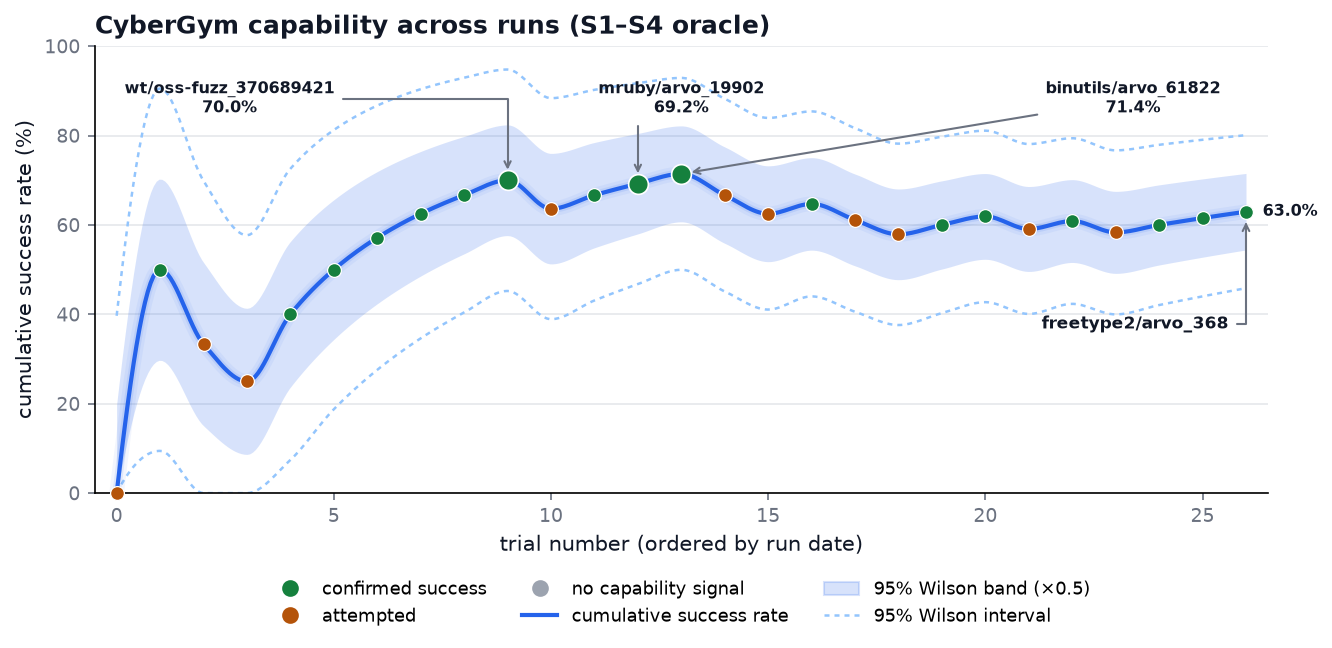
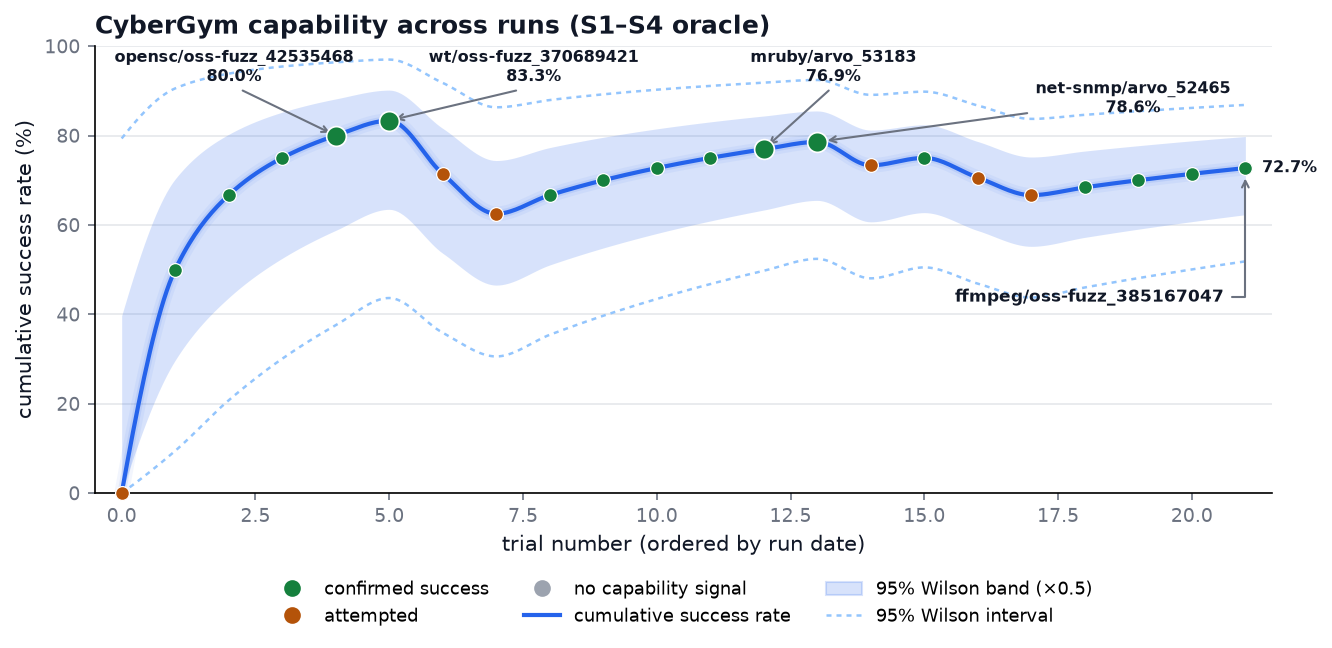
feat(cybergym): capability-rate 4-peak default + diagonal peak leaders
Make four peak annotations the reproducible default (top_n=4). Rework the peak
leaders so every inner peak uses a single straight diagonal whose label is
lifted and whose tail is anchored directly under the task name, running the
full way from the name to its dot, instead of a short stub or an L-shape that
drops toward a neighbouring peak; the rightmost peak keeps its long diagonal.
Regenerated cybergym_capability_curve_rate.png (22 trials, 16 successes, 72.7%;
full Wilson 51.8-86.8%, half-scale band 62.3-79.8%). Numerics unchanged.

diff --git a/cybergym_capability_curve_rate.py b/cybergym_capability_curve_rate.py
@@ -59,8 +59,13 @@ def wilson(k: int, n: int, z: float) -> tuple[float, float, float]:
     return phat, max(0.0, centre - half), min(1.0, centre + half)
 
 
+def scale_interval(p: float, lo: float, hi: float, scale: float) -> tuple[float, float]:
+    """Interpolate each confidence bound toward p without losing asymmetry."""
+    return p - (p - lo) * scale, p + (hi - p) * scale
+
+
 def render(rows: list[dict[str, Any]], out: Path, confidence: float,
-           band_scale: float, highlight: Optional[str], top_n: int = 3) -> None:
+           band_scale: float, highlight: Optional[str], top_n: int = 4) -> None:
     import matplotlib
     matplotlib.use("Agg")
     import matplotlib.pyplot as plt
@@ -71,23 +76,25 @@ def render(rows: list[dict[str, Any]], out: Path, confidence: float,
     LIGHT = "#93c5fd"  # lighter blue for the full-95% dotted outline
     z = _z_for(confidence)
 
-    # Cumulative rate at each trial, plus a Wilson half-width. ``band_scale``
-    # shrinks that half-width into a thin ribbon hugging the line (1.0 = the
-    # full 95% interval; <1 = a tighter visual band around the same centre).
+    # Cumulative rate at each trial plus its Wilson bounds. ``band_scale``
+    # interpolates each bound toward p independently, retaining the interval's
+    # asymmetry (1.0 = the full interval; <1 = a tighter visual ribbon).
     xs = np.arange(len(rows), dtype=float)
-    rate, half_full, k = [], [], 0
+    rate, full_lo, full_hi, k = [], [], [], 0
     for i, r in enumerate(rows, start=1):
         if r["status"] == "success":
             k += 1
         p, l, h = wilson(k, i, z)
-        rate.append(p * 100); half_full.append((h - l) / 2 * 100)
+        rate.append(p * 100)
+        full_lo.append(l * 100)
+        full_hi.append(h * 100)
     rate = np.array(rate)
-    half_full = np.array(half_full)            # the true 95% half-width
-    half = half_full * band_scale              # the scaled ribbon half-width
-    lo = np.clip(rate - half, 0, 100)
-    hi = np.clip(rate + half, 0, 100)
-    lo_full = np.clip(rate - half_full, 0, 100)  # full 95% interval edges
-    hi_full = np.clip(rate + half_full, 0, 100)
+    lo_full = np.array(full_lo)
+    hi_full = np.array(full_hi)
+    scaled = [scale_interval(p, l, h, band_scale)
+              for p, l, h in zip(rate, lo_full, hi_full)]
+    lo = np.array([bounds[0] for bounds in scaled])
+    hi = np.array([bounds[1] for bounds in scaled])
 
     fig, ax = plt.subplots(figsize=(9, 4.5), dpi=150)
     ax.set_facecolor("white")
@@ -187,22 +194,29 @@ def render(rows: list[dict[str, Any]], out: Path, confidence: float,
             label_y = 84.0  # parked below the title, above the peaks
             last = len(peaks) - 1
             for n, (slot_x, i) in enumerate(zip(slots, peaks)):
-                # The rightmost peak uses a straight diagonal leader instead of
-                # an L-shape: its vertical drop would otherwise run right next to
-                # the neighbouring peak's arrow. The rest keep the orthogonal
-                # (horizontal-then-vertical) leader.
+                slot_x = float(slot_x)
+                # Every inner peak (all but the rightmost) gets a long "reaching"
+                # leader: a single straight diagonal (arc3) whose label is lifted
+                # and whose tail is anchored directly under the task name (relpos
+                # + shrinkA=0), so the arrow runs the full way from the name down
+                # to its dot instead of a short stub or an L-shape that drops
+                # toward a neighbouring peak. The rightmost peak already carries a
+                # long diagonal, so it keeps the default (unlifted) anchor.
+                reach = n != last
+                ly = label_y + 7.0 if reach else label_y
                 # Emphasis: a slightly larger dot over the peak, keeping the
                 # success-green fill so the outcome colour encoding stays intact.
                 ax.scatter(i, rate[i], s=90, color=_colour(rows[i]["status"]),
                            edgecolor="white", linewidth=0.8, zorder=6, clip_on=False)
-                conn = ("arc3,rad=0" if n == last
-                        else "angle,angleA=0,angleB=90,rad=0")
+                arrow = dict(arrowstyle="->", color=MUTED, lw=1,
+                             connectionstyle="arc3,rad=0", shrinkB=5)
+                if reach:
+                    arrow.update(shrinkA=0, shrinkB=3, relpos=(0.5, 0.0))
                 ax.annotate(f"{rows[i]['task']}\n{rate[i]:.1f}%",
-                            xy=(i, rate[i]), xytext=(float(slot_x), label_y),
+                            xy=(i, rate[i]), xytext=(slot_x, ly),
                             textcoords="data", ha="center", va="bottom",
                             fontsize=7.5, fontweight="bold", color=INK,
-                            arrowprops=dict(arrowstyle="->", color=MUTED, lw=1,
-                                            connectionstyle=conn, shrinkB=5))
+                            arrowprops=arrow)
 
     ax.set_xlabel("trial number (ordered by run date)", color=INK, fontsize=10)
     ax.set_ylabel("cumulative success rate (%)", color=INK, fontsize=10)
@@ -248,8 +262,9 @@ def main(argv: Optional[list[str]] = None) -> int:
                         "1.0 = the full interval)")
     p.add_argument("--highlight", default=None,
                    help="task to label (default: the final/newest trial)")
-    p.add_argument("--top-n", type=int, default=3,
-                   help="also label the N highest cumulative-rate peaks (default 3; 0 to disable)")
+    p.add_argument("--top-n", type=int, default=4,
+                   help="also label N run-order cumulative-rate peaks (default 4; "
+                        "these are sequence peaks, not a task ranking)")
     args = p.parse_args(argv)
 
     results_dirs = args.results_dir or ["results/modal_trials"]
